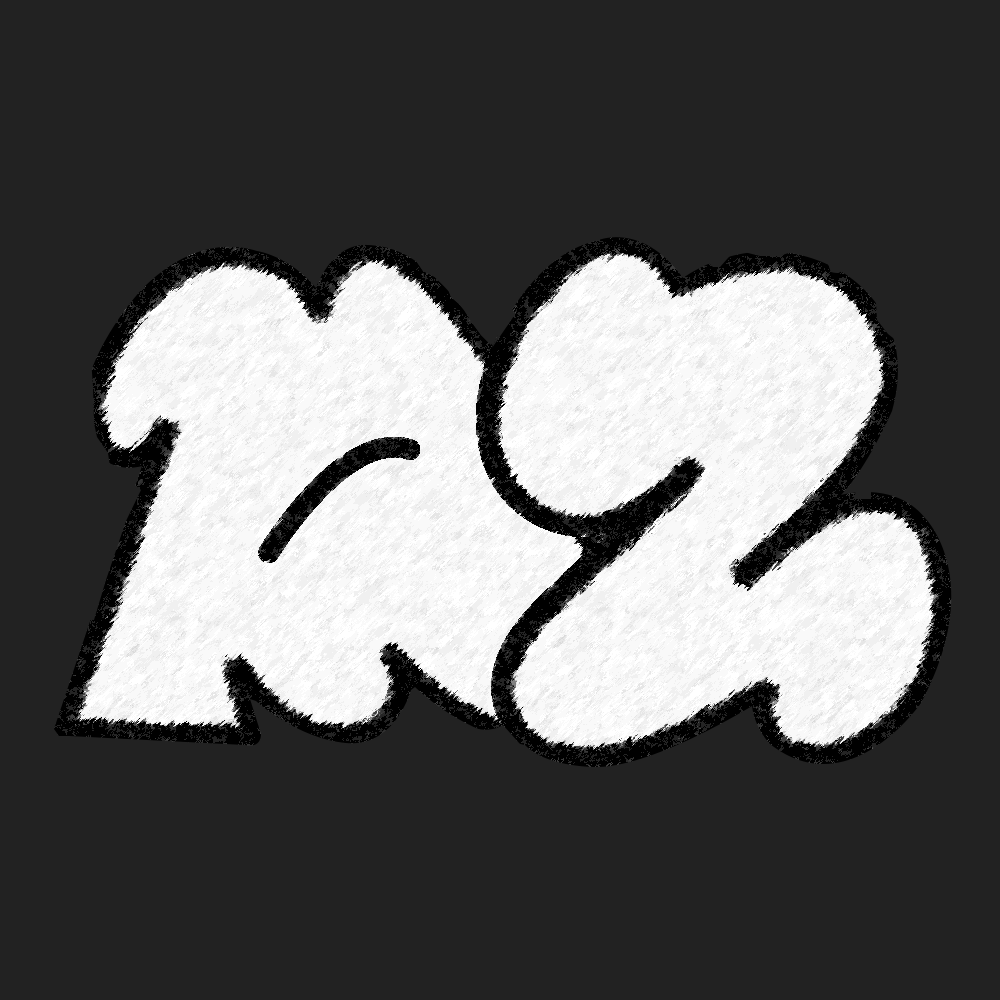
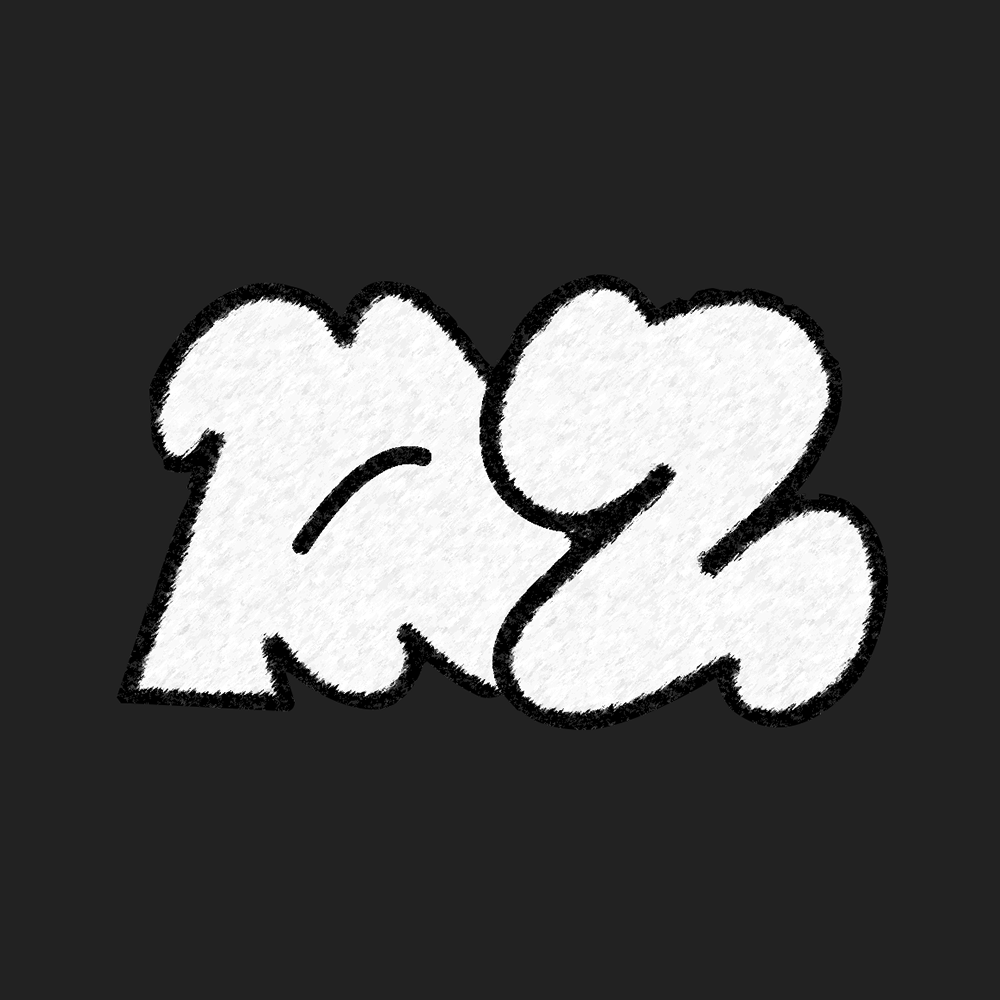
refactor: change image size

Changed region(s): [[0.031, 0.217, 0.961, 0.775], [0.248, 0.434, 0.434, 0.558]]

diff --git a/src/screens/Login/LoginViewer.tsx b/src/screens/Login/LoginViewer.tsx
@@ -5,9 +5,15 @@ import { ifIphoneX } from 'react-native-iphone-x-helper';
 
 import { PURPLE, WHITE } from '~/constants/Colors';
 import { Image, BottomLineInput, Text, RadiusButton, Colbox } from '~/Components/Atoms';
-import { KeyboardAvoidingViewer, BackgroundContainer } from '~/Components/Templates';
+import {
+  KeyboardAvoidingViewer,
+  BackgroundContainer,
+  SafeAreaContainer,
+} from '~/Components/Templates';
 import Layout from '~/constants/Layout';
 import section_png from '@png/section.png';
+import section_png2 from '@png/section2.png';
+import section_png3 from '@png/section3.png';
 import { NonLoginStackTypes } from '~/@types';
 import { InputBindType } from '~/hooks/useHandleInput';
 
@@ -32,54 +38,59 @@ type LoginProps = {
 const LoginViewer = ({ handleLogin, handleNavigate, idBinder, pwdBinder }: LoginProps) => {
   return (
     <BackgroundContainer>
-      <KeyboardAvoidingViewer>
-        <TouchableWithoutFeedback onPress={Platform.OS !== 'web' ? Keyboard.dismiss : undefined}>
-          <Wrapper>
-            <Image imgSrc={section_png} marginTop={ifIphoneX(`${Layout.height / 12}px`, '0')} />
-            <MiddleBox>
-              <BottomLineInput
-                inputBinder={idBinder}
-                marginBottom={'30px'}
-                placeholder="아이디"
-                keyboardType="email-address"
+      <SafeAreaContainer>
+        <KeyboardAvoidingViewer>
+          <TouchableWithoutFeedback onPress={Platform.OS !== 'web' ? Keyboard.dismiss : undefined}>
+            <Wrapper>
+              <Image
+                imgSrc={ifIphoneX(section_png3, section_png2)}
+                marginTop={ifIphoneX(`${Layout.height / 12}px`, '0')}
               />
-              <BottomLineInput
-                inputBinder={pwdBinder}
-                marginBottom={'15px'}
-                secureTextEntry={true}
-                placeholder="패스워드"
-              />
-              <Touchable>
-                <Text text="비밀번호 찾기" marginBottom={'20px'} />
-              </Touchable>
-            </MiddleBox>
-            <Colbox>
-              <RadiusButton
-                text="로그인"
-                height={'49px'}
-                color={WHITE}
-                bgColor={PURPLE}
-                borderRadius={'45px'}
-                fontSize={'16px'}
-                fontWeight={800}
-                onPress={handleLogin}
-              />
-              <RadiusButton
-                text="회원가입"
-                height={'49px'}
-                color={WHITE}
-                borderRadius={'45px'}
-                fontSize={'15px'}
-                fontWeight={300}
-                marginBottom={'10px'}
-                onPress={() => {
-                  handleNavigate('CreateAccount');
-                }}
-              />
-            </Colbox>
-          </Wrapper>
-        </TouchableWithoutFeedback>
-      </KeyboardAvoidingViewer>
+              <MiddleBox>
+                <BottomLineInput
+                  inputBinder={idBinder}
+                  marginBottom={'30px'}
+                  placeholder="아이디"
+                  keyboardType="email-address"
+                />
+                <BottomLineInput
+                  inputBinder={pwdBinder}
+                  marginBottom={'15px'}
+                  secureTextEntry={true}
+                  placeholder="패스워드"
+                />
+                <Touchable>
+                  <Text text="비밀번호 찾기" marginBottom={'20px'} />
+                </Touchable>
+              </MiddleBox>
+              <Colbox>
+                <RadiusButton
+                  text="로그인"
+                  height={'49px'}
+                  color={WHITE}
+                  bgColor={PURPLE}
+                  borderRadius={'45px'}
+                  fontSize={'16px'}
+                  fontWeight={800}
+                  onPress={handleLogin}
+                />
+                <RadiusButton
+                  text="회원가입"
+                  height={'49px'}
+                  color={WHITE}
+                  borderRadius={'45px'}
+                  fontSize={'15px'}
+                  fontWeight={300}
+                  marginBottom={'10px'}
+                  onPress={() => {
+                    handleNavigate('CreateAccount');
+                  }}
+                />
+              </Colbox>
+            </Wrapper>
+          </TouchableWithoutFeedback>
+        </KeyboardAvoidingViewer>
+      </SafeAreaContainer>
     </BackgroundContainer>
   );
 };

diff --git a/src/Navigations/Stack/NonLoginStack.tsx b/src/Navigations/Stack/NonLoginStack.tsx
@@ -22,7 +22,7 @@ const NonLoginStack = () => (
       options={{
         headerLeft: () => (
           <HeaderWrapper>
-            <Image imgSrc={logo_png} />
+            <Image imgSrc={logo_png} width="57px" height="35px" />
           </HeaderWrapper>
         ),
         headerTitle: '',
